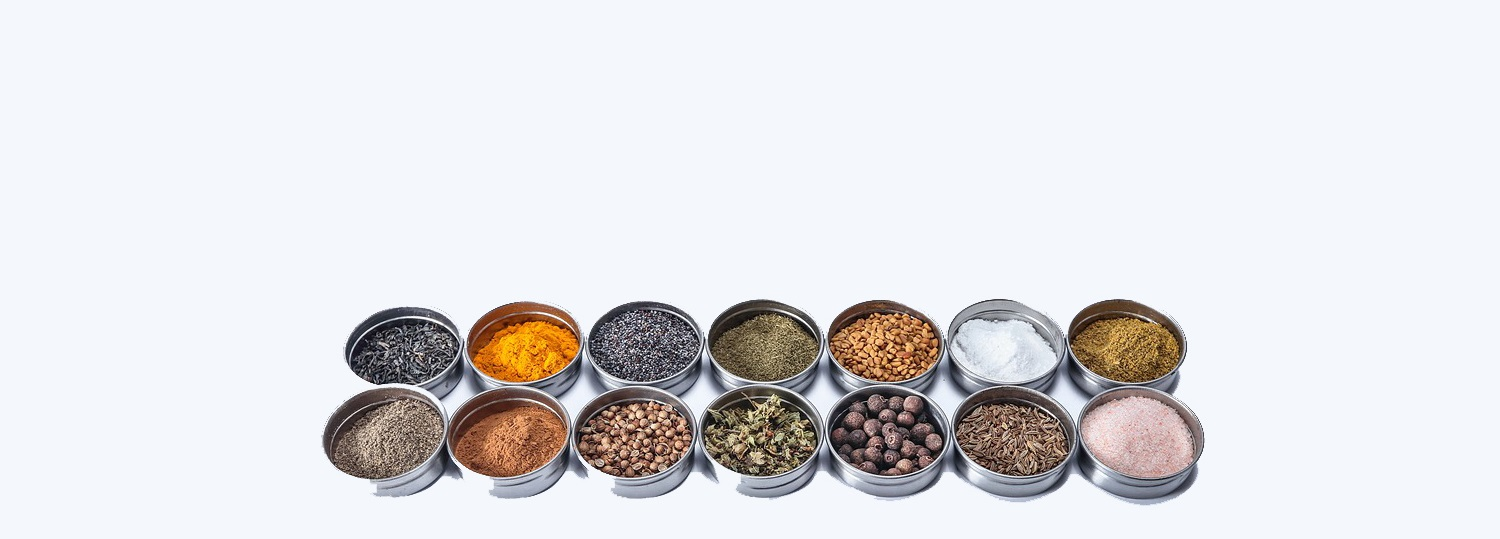
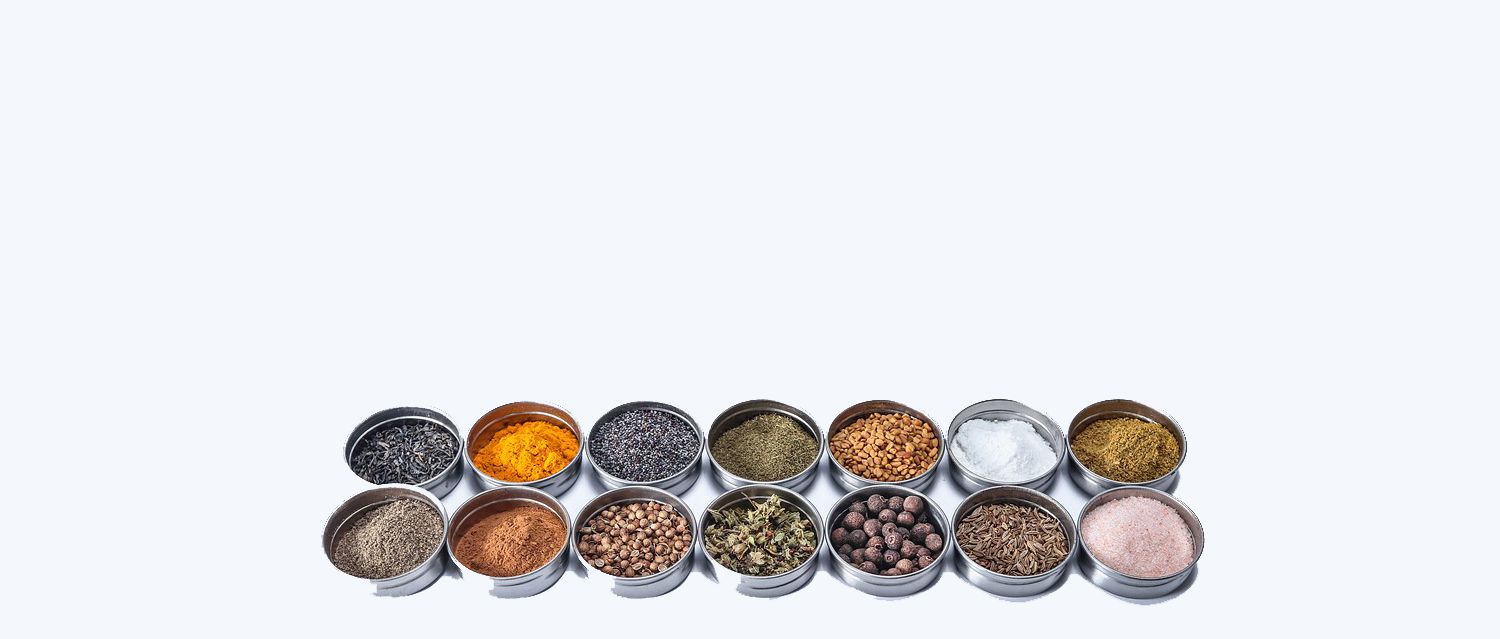
Fixing additional styling for Home Page and header

Changed region(s): [[0.2147, 0.5343, 0.828, 0.9499]]

diff --git a/src/index.scss b/src/index.scss
@@ -2,6 +2,7 @@ $primary-color: #4a6b8b;
 $secondary-color: lightgray;
 $heading-font: 'Merienda';
 $main-font: Verdana;
+$shadow: 0 0 8px 0 gray; 
 
 *,
 *::after,
@@ -66,7 +67,7 @@ h6 {
     &:hover {
       background-color: $secondary-color;
       color: $primary-color;
-      box-shadow: 2px 2px 5px 0 gray;
+      box-shadow: $shadow;
     }
   }
 }

diff --git a/src/components/common/Header/Header.scss b/src/components/common/Header/Header.scss
@@ -7,6 +7,8 @@
     align-items: center;
     justify-content: space-between;
     padding: 8px 50px;
+    width: 100%;
+    position: fixed;
 
     .logo {
         letter-spacing: 2px;

diff --git a/src/components/Home/Home.scss b/src/components/Home/Home.scss
@@ -5,7 +5,7 @@
     color: $primary-color;
     text-align: center;
     height: 100vh;
-    padding-top: 50px;
+    padding-top: 120px;
     
     .welcome-message,
     .buttons {
